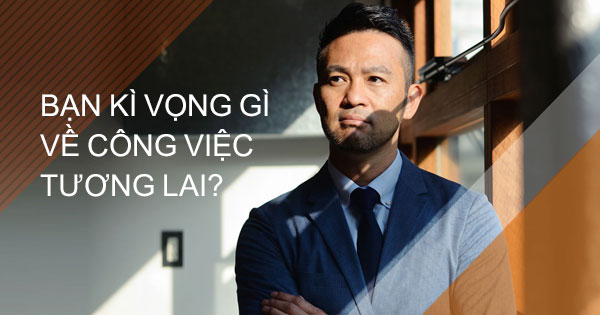
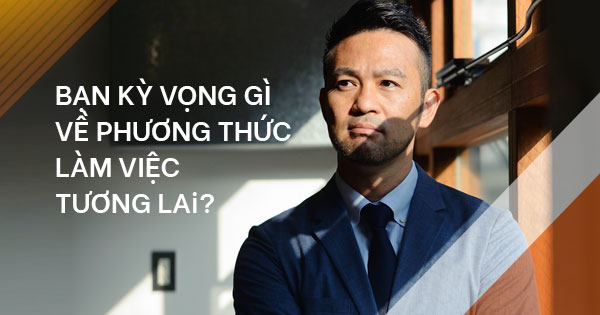
update

diff --git a/thongtinquatang.html b/thongtinquatang.html
@@ -7,8 +7,7 @@
   
   <meta name="viewport" content="width=device-width, initial-scale=1, minimum-scale=1">
   <link rel="shortcut icon" href="assets/images/anphabe-01-128x97.png" type="image/x-icon">
-  <meta name="description" content="Sau nhiều biến đổi, bạn kỳ vọng gì về công việc tương lai? 
-Tham gia khảo sát ngay!">
+  <meta name="description" content="Sau nhiều biến đổi, bạn kì vọng gì về phương thức làm việc tương lai? Chia sẻ ngay!">
   
   
   <title>Thông tin quà tặng</title>
@@ -150,9 +149,9 @@ height="0" width="0" style="display:none;visibility:hidden"></iframe></noscript>
                 <p class="mbr-text mbr-fonts-style display-4">6.000 đáp viên đầu tiên hoàn thành Khảo sát hợp lệ sẽ nhận ngay:</p> 
                 <ul class="list mbr-fonts-style display-4">
                     <li>Một (01) mã quà tặng “Giảm giá 50.000VNĐ cho đơn hàng 100.000 VNĐ” khi mua sản phẩm tại hệ thống cửa hàng KFC ở Hà Nội và TP.Hồ Chí Minh, áp dụng từ ngày 01/07/2021 đến ngày 31/08/2021</li>                   
-                    <li>Một (01) mã rút thăm may mắn – Cơ hội sở hữu loa Bluetooth OPPO qua chương trình quay số may mắn hàng tuần.</li> 
+                    <li>Một (01) mã rút thăm may mắn – Cơ hội sở hữu loa Bluetooth OPPO qua chương trình quay số may mắn hàng tuần</li> 
                 </ul>                
-                <p class="mbr-text mbr-fonts-style display-4"><em>Lưu&nbsp;ý:&nbsp;Anphabe&nbsp;chỉ&nbsp;ghi&nbsp;nhận&nbsp;và&nbsp;tặng&nbsp;quà&nbsp;cho&nbsp;những&nbsp;khảo&nbsp;sát&nbsp;hợp&nbsp;lệ.</em></p>
+                <p class="mbr-text mbr-fonts-style display-4"><em>Lưu&nbsp;ý:&nbsp;Anphabe&nbsp;chỉ&nbsp;ghi&nbsp;nhận&nbsp;và&nbsp;tặng&nbsp;quà&nbsp;cho&nbsp;những&nbsp;khảo&nbsp;sát&nbsp;hợp&nbsp;lệ</em></p>
                 <p class="mbr-text mbr-fonts-style mt-7 display-4"><strong>ĐIỀU KIỆN QUÀ TẶNG KFC</strong></p>
                 <ul class="list mbr-fonts-style display-4">
                     <li><strong>Thời gian sử dụng từ ngày</strong> <strong>01/07/2021 – 31/08/2021</strong></li>
@@ -175,10 +174,10 @@ height="0" width="0" style="display:none;visibility:hidden"></iframe></noscript>
                 <p class="mbr-text mbr-fonts-style display-4"><strong>ĐIỀU KIỆN QUÀ TẶNG OPPO</strong></p>
 
                 <ul class="list mbr-fonts-style display-4">
-                    <li>Đáp viên may mắn sẽ được hệ thống lựa chọn ngẫu nhiên và gửi thông báo về quà tặng và hình thức nhận quà qua email đã đăng ký khi tham gia khảo sát. Đáp viên may mắn vui lòng xác nhận thông tin nhận thưởng qua email trong vòng 3 ngày làm việc kể từ khi nhận thông báo trúng thưởng của Ban tổ chức.</li>
+                    <li>Đáp viên may mắn sẽ được hệ thống lựa chọn ngẫu nhiên và gửi thông báo về quà tặng và hình thức nhận quà qua email đã đăng ký khi tham gia khảo sát. Đáp viên may mắn vui lòng xác nhận thông tin nhận thưởng qua email trong vòng 3 ngày làm việc kể từ khi nhận thông báo trúng thưởng của Ban tổ chức</li>
                     <li>Việc quay số may mắn được thực hiện vào thứ 6 hằng tuần và kết quả được thông báo trên kênh Facebook chính thức của Anphabe: <a href="https://www.facebook.com/anphabe" class="text-primary" target="_blank">https://www.facebook.com/anphabe</a></li>
-                    <li>Số lượng đáp viên may mắn: một<strong> (01) đáp viên/tuần</strong>.</li>
-                    <li>Hình thức nhận quà:&nbsp;Anphabe gửi quà về địa chỉ do đáp viên cung cấp. Trong trường hợp đơn vị vận chuyển không liên lạc được với người nhận thưởng và phải hoàn lại tặng phẩm về nơi phát, Ban tổ chức có quyền linh động thay đổi người nhận thưởng và rút lại giải thưởng ban đầu đối với người được nhận thưởng.</li>
+                    <li>Số lượng đáp viên may mắn: <strong>Một&nbsp;(01) đáp viên/tuần</strong>.</li>
+                    <li>Hình thức nhận quà:&nbsp;Anphabe gửi quà về địa chỉ do đáp viên cung cấp. Trong trường hợp đơn vị vận chuyển không liên lạc được với người nhận thưởng và phải hoàn lại tặng phẩm về nơi phát, Ban tổ chức có quyền linh động thay đổi người nhận thưởng và rút lại giải thưởng ban đầu đối với người được nhận thưởng</li>
                 </ul>  
 
                 <p class="mbr-text mbr-fonts-style display-4">Do tình hình dịch Covid-19 diễn biến phức tạp, TP.HCM đang giãn cách xã hội theo Chỉ thị 16 kể từ ngày&nbsp;09/07/2021 và công ty Anphabe đang áp dụng hình thức làm việc tại nhà. Anphabe cam kết sẽ chuyển quà tặng loa Bluetooth Oppo theo địa chỉ bạn đã cung cấp ngay khi chính quyền địa phương công bố dừng giãn cách và&nbsp;trở lại làm việc bình thường. </p>
@@ -211,7 +210,7 @@ height="0" width="0" style="display:none;visibility:hidden"></iframe></noscript>
             
             <div class="col-12 col-lg">
                 <div class="text-wrapper">
-                    <h3 class="mbr-section-title mbr-fonts-style mb-3 display-5">THÔNG TIN QUÀ TẶNG - Loa Bluetooth OPPO </h3>
+                    <h3 class="mbr-section-title mbr-fonts-style mb-3 display-5">THÔNG TIN QUÀ TẶNG - <br>Loa Bluetooth OPPO </h3>
                     <p class="mbr-text mbr-fonts-style display-4">Loa Bluetooth OPPO, vừa nổi bật vừa tạo cá tính riêng nhờ thiết kế hình hộp bo tròn góc, các nút điều khiển vật lý ở cạnh trên và logo OPPO ngay mặt trước. Ẩn ngay bên dưới lưới bảo vệ loa là các đèn LED 7 đoạn hiển thị thời gian, cho phép sản phẩm vừa có chức năng phát âm thanh không dây, vừa là một đồng hồ để bàn xinh xắn. Món quà công nghệ này sử dụng kết nối Bluetooth 5.0, tích hợp pin 750mAh cho thời lượng sử dụng liên tục đến 8 giờ, nạp lại năng lượng qua cổng USB Type-C trong 3 giờ sạc. </p>
                     
                 </div>

diff --git a/index.html b/index.html
@@ -7,8 +7,7 @@
   
   <meta name="viewport" content="width=device-width, initial-scale=1, minimum-scale=1">
   <link rel="shortcut icon" href="assets/images/anphabe-01-128x97.png" type="image/x-icon">
-  <meta name="description" content="Sau nhiều biến đổi, bạn kỳ vọng gì về công việc tương lai? 
-Tham gia khảo sát ngay!">
+  <meta name="description" content="Sau nhiều biến đổi, bạn kì vọng gì về phương thức làm việc tương lai? Chia sẻ ngay!">
   
   
   <title>Khảo sát xu hướng 2021 | ANPHABE</title>
@@ -153,8 +152,7 @@ height="0" width="0" style="display:none;visibility:hidden"></iframe></noscript>
                           <p class="mbr-text mbr-fonts-style mt-3 display-4">Nhận liền tay khi bạn hoàn thành khảo sát hợp lệ:</p>
                           <ul>
                               <li class="mbr-fonts-style display-4"><strong>Voucher KFC 50.000 VNĐ</strong> (áp dụng cho đơn hàng từ 100.000 VNĐ).</li>
-                              <li class="mbr-fonts-style display-4">Mã rút thăm may mắn hàng tuần - quà tặng loa <strong>Bluetooth Oppo trị giá 990.000VNĐ<b>.</b></strong></li><strong><b>
-                          </b></strong></ul><strong><b>
+                              <li class="mbr-fonts-style display-4">Mã rút thăm may mắn hàng tuần - quà tặng <strong>loa Bluetooth Oppo trị giá 990.000VNĐ<b>.</b></strong></li></ul><strong><b>
 
                           <div class="mbr-section-btn"><a class="btn btn-secondary-outline display-4" href="thongtinquatang.html"><span class="mobi-mbri mobi-mbri-right mbr-iconfont mbr-iconfont-btn"></span><font style="vertical-align: inherit;"><font style="vertical-align: inherit;">Thông tin quà tặng</font></font></a></div>
                           

diff --git a/assets/mobirise/css/mbr-additional.css b/assets/mobirise/css/mbr-additional.css
@@ -737,6 +737,13 @@ a {
 .cid-ss0xV0Xvc9 .mbr-text {
   text-align: left;
 }
+.cid-ss0xV0Xvc9 ul {
+  margin-bottom: 1rem;
+}
+.cid-ss0xV0Xvc9 ul li {
+  margin-left: -18px;
+  line-height: 2rem;
+}
 .cid-sEm0b9OhnP {
   padding-top: 5rem;
   padding-bottom: 5rem;
